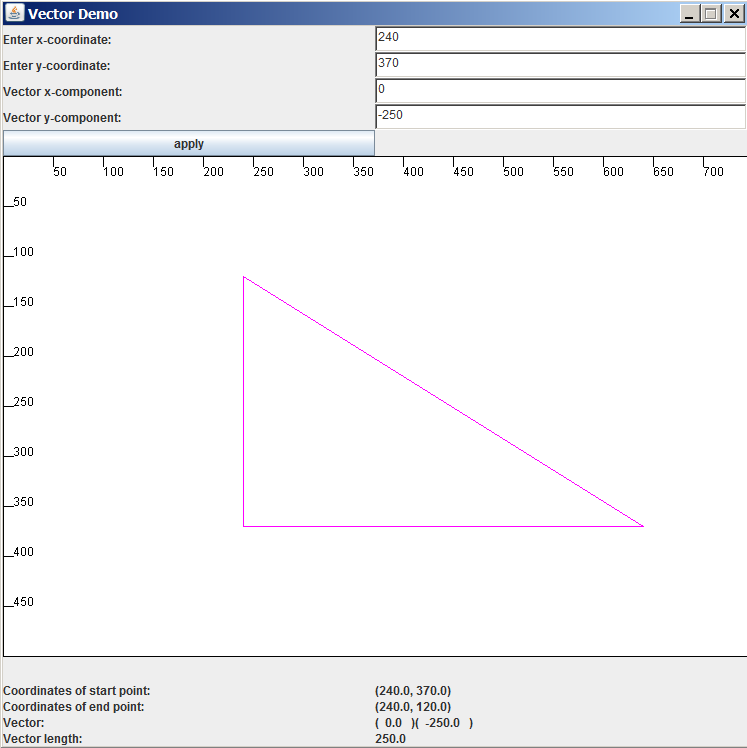
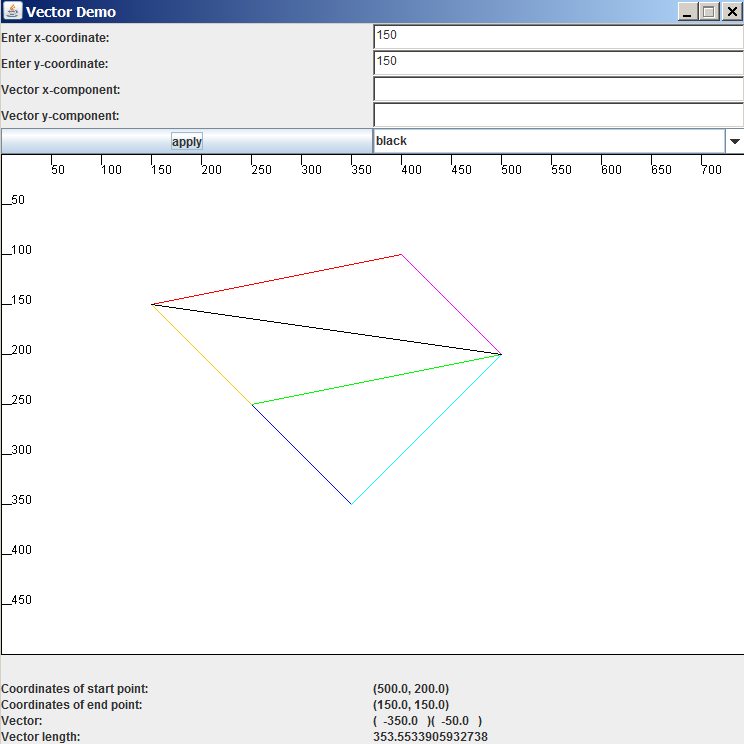
Improvements, color select functionality

diff --git a/frame/VectorFrame.java b/frame/VectorFrame.java
@@ -1,11 +1,13 @@
 package frame;
 
 import java.awt.BorderLayout;
+import java.awt.Color;
 import java.awt.GridLayout;
 import java.awt.TextField;
 import java.awt.event.ActionEvent;
 import java.awt.event.ActionListener;
 import javax.swing.JButton;
+import javax.swing.JComboBox;
 import javax.swing.JComponent;
 import javax.swing.JFrame;
 import javax.swing.JLabel;
@@ -27,18 +29,20 @@ public class VectorFrame extends JComponent implements ActionListener {
 	private TextField yText = new TextField();
 	private TextField vxText = new TextField();
 	private TextField vyText = new TextField();
+	private JButton applyButton = new JButton("apply");
+	private JComboBox<String> comboBox = new JComboBox<>(VectorCanvas.COLORS);
 	private JLabel currentStartP = new JLabel();
 	private JLabel currentEndP = new JLabel();
 	private JLabel currentVector = new JLabel();
 	private JLabel currentVectorLength = new JLabel();
-	private static final int WIDTH = 750;
-	private static final int HEIGHT = 750;
+	public static final int WIDTH = 750;
+	public static final int HEIGHT = 750;
 	
 	public VectorFrame() {
-		initVectorFrame();
+		init();
 	}
 	
-	public void initVectorFrame() {
+	public void init() {
 		frame.setTitle("Vector Demo");
 		frame.setSize(WIDTH, HEIGHT);
 		frame.setVisible(true);
@@ -57,8 +61,9 @@ public class VectorFrame extends JComponent implements ActionListener {
 		JLabel endP = new JLabel("Coordinates of end point:");
 		JLabel vector = new JLabel("Vector:");
 		JLabel vectorLength = new JLabel("Vector length:");
-		JButton button = new JButton("apply");
-		button.addActionListener(this);
+		applyButton.addActionListener(this);
+		comboBox.addActionListener(this);
+		comboBox.setBackground(Color.WHITE);
 		
 		labelPanel.add(xCoor);
 		labelPanel.add(xText);
@@ -68,7 +73,8 @@ public class VectorFrame extends JComponent implements ActionListener {
 		labelPanel.add(vxText);
 		labelPanel.add(vyCoor);
 		labelPanel.add(vyText);
-		labelPanel.add(button);
+		labelPanel.add(applyButton);
+		labelPanel.add(comboBox);
 		
 		vectorPanel.add(startP);
 		vectorPanel.add(currentStartP);
@@ -81,36 +87,43 @@ public class VectorFrame extends JComponent implements ActionListener {
 		
 		main.add(labelPanel, BorderLayout.NORTH);
 		main.add(vectorPanel, BorderLayout.SOUTH);
+		main.add(new VectorCanvas(null, null));
 		frame.getContentPane().add(main);
 	}
 	
 	public static void main(String[] args) {
 		new VectorFrame();
 	}
-	
-	@Override
-	public int getWidth() {
-		return WIDTH;
-	}
-	
-	@Override
-	public int getHeight() {
-		return HEIGHT;
-	}
 
 	@Override
 	public void actionPerformed(ActionEvent ae) {
-		Vector2D v = handleVector(vxText.getText(), vyText.getText());
+		if (ae.getActionCommand().equals(applyButton.getText())) {
+			handleVectorCanvasChanged();
+		} else {
+			handleComboBoxChanged();
+		}
+	}
+
+	private void handleVectorCanvasChanged() {
 		Point2D p = handlePoint(xText.getText(), yText.getText());
+		Vector2D v = handleVector(vxText.getText(), vyText.getText(), p);
 		if (v != null && p != null) {
+			// Remove VectorCanvas component if exists:
 			if (main.getComponentCount() >= 3) {
 				main.remove(2);
 			}
+			// Re-add new VectorCanvas component:
 			main.add(new VectorCanvas(v, p));
 			frame.getContentPane().add(main);
 			
+			Point2D endPoint = v.applyTo(p);
+			xText.setText(Integer.toString((int) endPoint.getX()));
+			yText.setText(Integer.toString((int) endPoint.getY()));
+			vxText.setText("");
+			vyText.setText("");
+			
 			currentStartP.setText(p.print());
-			currentEndP.setText(v.applyTo(p).print());
+			currentEndP.setText(endPoint.print());
 			currentVector.setText(v.print());
 			currentVectorLength.setText(String.valueOf(v.getLength()));
 			
@@ -118,12 +131,52 @@ public class VectorFrame extends JComponent implements ActionListener {
 			frame.repaint();
 		}
 	}
-	
+
+	private void handleComboBoxChanged() {
+		VectorCanvas.setCurrentCol(getCurrentColor((String) comboBox.getSelectedItem()));
+	}
+
+	private Color getCurrentColor(String col) {
+		switch (col) {
+		case "black":
+			return Color.BLACK;
+		case "blue":
+			return Color.BLUE;
+		case "cyan":
+			return Color.CYAN;
+		case "dark-gray":
+			return Color.DARK_GRAY;
+		case "gray":
+			return Color.GRAY;
+		case "green":
+			return Color.GREEN;
+		case "light-gray":
+			return Color.LIGHT_GRAY;
+		case "magenta":
+			return Color.MAGENTA;
+		case "orange":
+			return Color.ORANGE;
+		case "pink":
+			return Color.PINK;
+		case "red":
+			return Color.RED;
+		default:
+			return Color.YELLOW;
+		}
+	}
+
 	public Point2D handlePoint(String x, String y) {
 		try {
 			double xCoor = Double.parseDouble(x);
 			double yCoor = Double.parseDouble(y);
-			return new Point2D(xCoor, yCoor);
+			boolean inPositiveRange = xCoor >= 0 && yCoor >= 0;
+			
+			if (xCoor <= VectorCanvas.WIDTH &&
+				yCoor <= VectorCanvas.HEIGHT && inPositiveRange) {
+				return new Point2D(xCoor, yCoor);
+			} else {
+				throw new NumberFormatException();
+			}
 		} catch (NumberFormatException e) {
 			JOptionPane.showMessageDialog(frame, "Invalid point!", "Error",
 					JOptionPane.ERROR_MESSAGE);
@@ -131,11 +184,23 @@ public class VectorFrame extends JComponent implements ActionListener {
 		}
 	}
 	
-	public Vector2D handleVector(String x, String y) {
+	public Vector2D handleVector(String x, String y, Point2D p) {
 		try {
 			double xComp = Double.parseDouble(x);
 			double yComp = Double.parseDouble(y);
-			return new Vector2D(xComp, yComp);
+			
+			if (p != null) {
+				boolean isInBounds = xComp + p.getX() >= 0 && yComp + p.getY() >= 0;
+				
+				if (xComp + p.getX() <= VectorCanvas.WIDTH &&
+		            yComp + p.getY() <= VectorCanvas.HEIGHT && isInBounds) {
+					return new Vector2D(xComp, yComp);
+				} else {
+					throw new NumberFormatException();
+				}
+			} else {
+				return null;
+			}
 		} catch (NumberFormatException e) {
 			JOptionPane.showMessageDialog(frame, "Invalid vector!", "Error",
 					JOptionPane.ERROR_MESSAGE);

diff --git a/frame/VectorCanvas.java b/frame/VectorCanvas.java
@@ -3,8 +3,6 @@ package frame;
 import java.awt.Color;
 import java.awt.Graphics;
 import java.util.ArrayList;
-import java.util.Random;
-
 import javax.swing.JComponent;
 
 import vec.Line2D;
@@ -14,28 +12,24 @@ import vec.Vector2D;
 public class VectorCanvas extends JComponent {
 
 	private static final long serialVersionUID = 1L;
-	private static final int WIDTH = 750;
-	private static final int HEIGHT = 500;
+	public static Color currentCol = Color.BLACK;
+	public static final int WIDTH = 750;
+	public static final int HEIGHT = 500;
+	public static final String[] COLORS = {"black", "blue", "cyan", "dark-gray",
+			                                "gray", "green", "light-gray",
+			                                "magenta", "orange", "pink", "red",
+			                                "yellow"};
 	private Vector2D vector;
 	private static ArrayList<Line2D> lines = new ArrayList<>();
 	
 	public VectorCanvas(Vector2D vector, Point2D start) {
 		this.setSize(WIDTH, HEIGHT);
-		this.vector = vector;
-		Line2D line = new Line2D(start, vector.applyTo(start));
-		int i = 0;
-		if (lines.size() > 0) {
-			for (Line2D l : lines) {
-				if (l.isSame(line)) {
-					i++;
-					break;
-				}
-			}
-			if (i == 0) {
+		if (vector != null && start != null) {
+			this.vector = vector;
+			Line2D line = new Line2D(start, vector.applyTo(start));
+			if (!lines.contains(line)) {
 				lines.add(line);
 			}
-		} else {
-			lines.add(line);
 		}
 	}
 	
@@ -56,45 +50,19 @@ public class VectorCanvas extends JComponent {
 			g.drawString(String.valueOf(j), 10, j);
 		}
 		
-		g.setColor(randomColor());
 		for (Line2D line : lines) {
+			g.setColor(line.getCurrentCol());
 			Point2D start = line.getStart();
 			Point2D end = line.getEnd();
 			g.drawLine((int) start.getX(), (int) start.getY(), (int) end.getX(), (int) end.getY());
 		}
 	}
 	
-	public Color randomColor() {
-		Random rand = new Random(System.currentTimeMillis());
-		switch (rand.nextInt(12)) {
-		case 0:
-			return Color.BLACK;
-		case 1:
-			return Color.BLUE;
-		case 2:
-			return Color.CYAN;
-		case 3:
-			return Color.DARK_GRAY;
-		case 4:
-			return Color.GRAY;
-		case 5:
-			return Color.GREEN;
-		case 6:
-			return Color.LIGHT_GRAY;
-		case 7:
-			return Color.MAGENTA;
-		case 8:
-			return Color.ORANGE;
-		case 9:
-			return Color.PINK;
-		case 10:
-			return Color.RED;
-		default:
-			return Color.YELLOW;
-		}
-	}
-	
 	public Vector2D getVector() {
 		return vector;
+	}
+	
+	public static void setCurrentCol(Color col) {
+		currentCol = col;
 	}
 }

diff --git a/vec/Line2D.java b/vec/Line2D.java
@@ -1,19 +1,39 @@
 package vec;
 
+import java.awt.Color;
+
+import frame.VectorCanvas;
+
 public class Line2D {
 
 	private Point2D start;
 	private Point2D end;
+	private Color currentCol;
 	
 	public Line2D(Point2D start, Point2D end) {
 		this.start = start;
 		this.end = end;
+		this.currentCol = VectorCanvas.currentCol;
 	}
 	
 	public boolean isSame(Line2D other) {
 		return start.isSame(other.getStart()) && end.isSame(other.getEnd());
 	}
 	
+	@Override
+	public boolean equals(Object other) {
+		 if (other == null) return false;
+		 if (other == this) return true;
+		 if (!(other instanceof Line2D)) return false;
+		 Line2D otherLine = (Line2D) other;
+		 return isSame(otherLine);
+	}
+
+	@Override
+	public int hashCode() {
+	    return this.hashCode();
+	}
+ 
 	public String print() {
 		return "(" + start.getX() + ", " + start.getY() + ") -> "
 				+ "(" + end.getX() + ", " + end.getY() + ")";
@@ -25,5 +45,13 @@ public class Line2D {
 	
 	public Point2D getEnd() {
 		return end;
+	}
+	
+	public Color getCurrentCol() {
+		return currentCol;
+	}
+
+	public void setCurrentCol(Color col) {
+		this.currentCol = col;
 	}
 }
